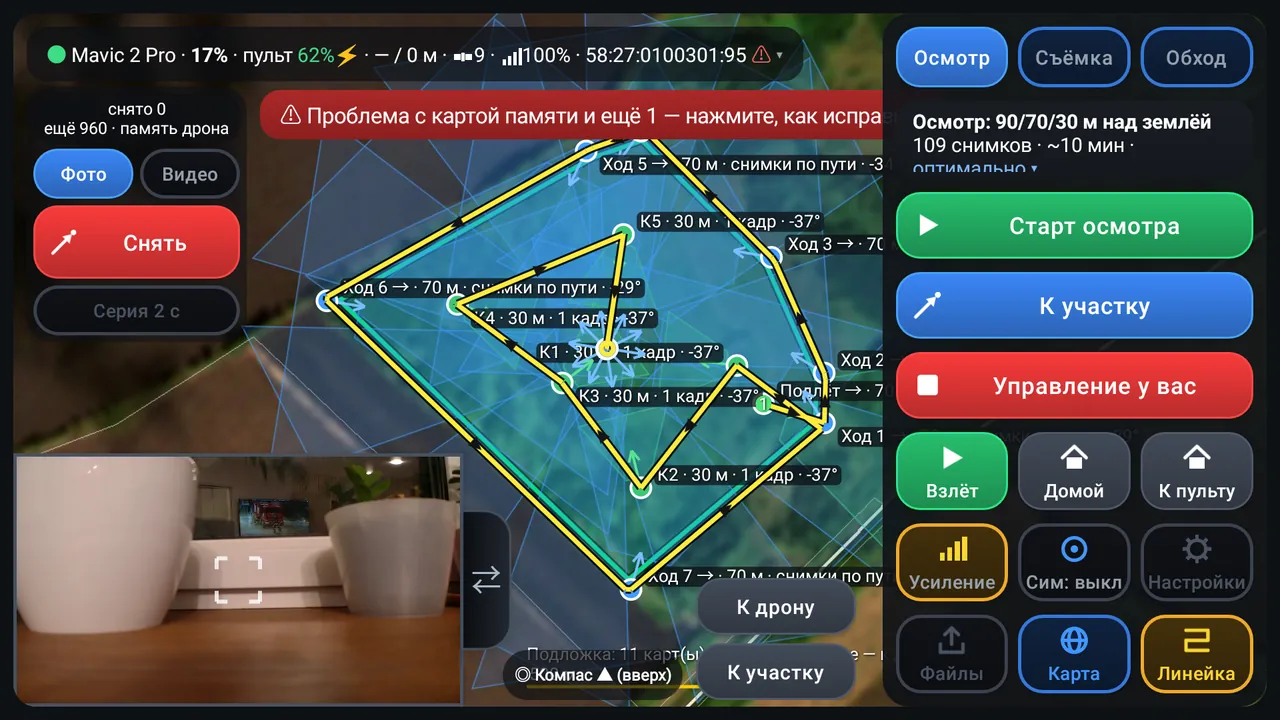
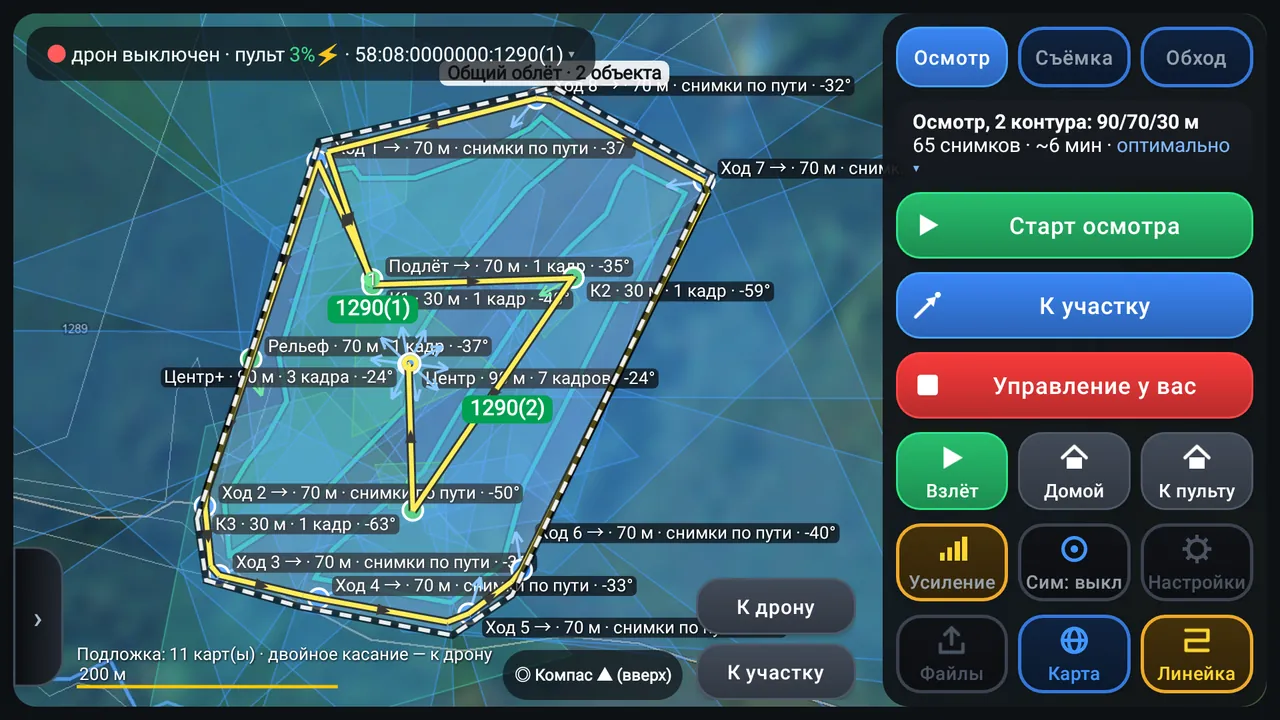
Drone case: controller screenshot without the camera preview

diff --git a/index.html b/index.html
@@ -324,8 +324,8 @@
         <div class="showcase-media">
           <div class="frame-stack">
             <div class="frame">
-              <div class="frame-bar"><i></i><i></i><i></i><span>DJI Smart Controller: planned inspection, 109 photos, ~10 min</span></div>
-              <img src="assets/drone-mission.webp" width="1280" height="720" alt="Drone controller screen: a planned inspection route around a parcel boundary with side-looking photo legs, quality shots at 30 m and a centre ring, over an offline satellite map" loading="lazy">
+              <div class="frame-bar"><i></i><i></i><i></i><span>DJI Smart Controller: two adjacent parcels in one loop, 65 photos, ~6 min</span></div>
+              <img src="assets/drone-mission.webp" width="1280" height="720" alt="Drone controller screen: one inspection loop around two adjacent parcels with photo legs, quality shots at 30 m and centre shots, over an offline satellite map" loading="lazy">
             </div>
             <div class="frame">
               <div class="frame-bar"><i></i><i></i><i></i><span>Three-contour parcel from a registry extract on an offline Sentinel-2 basemap</span></div>
